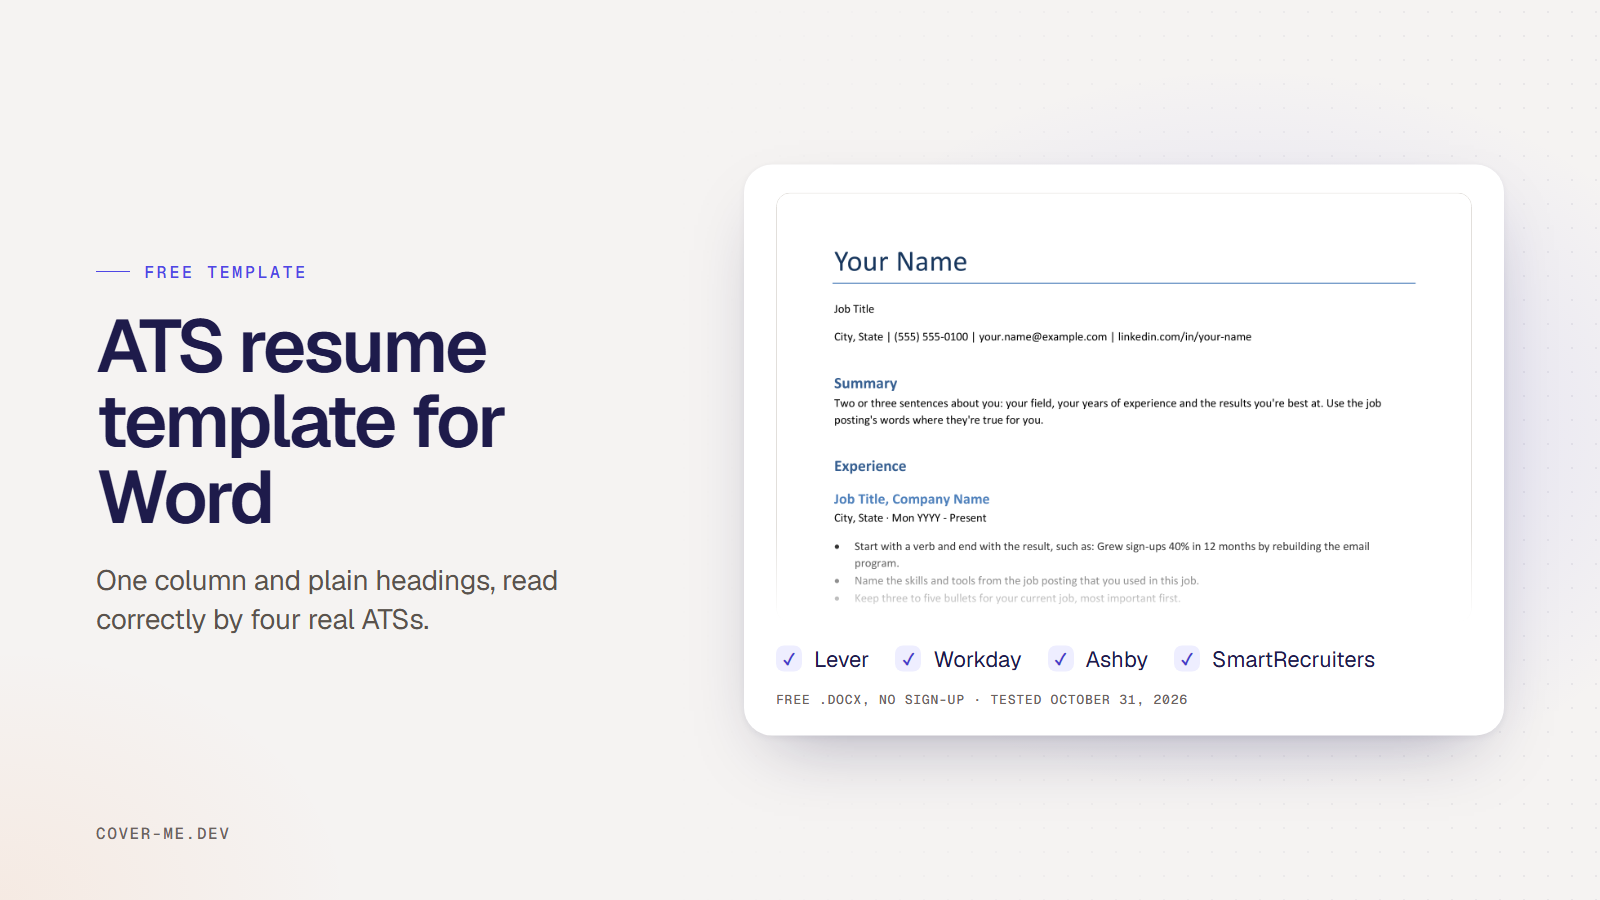
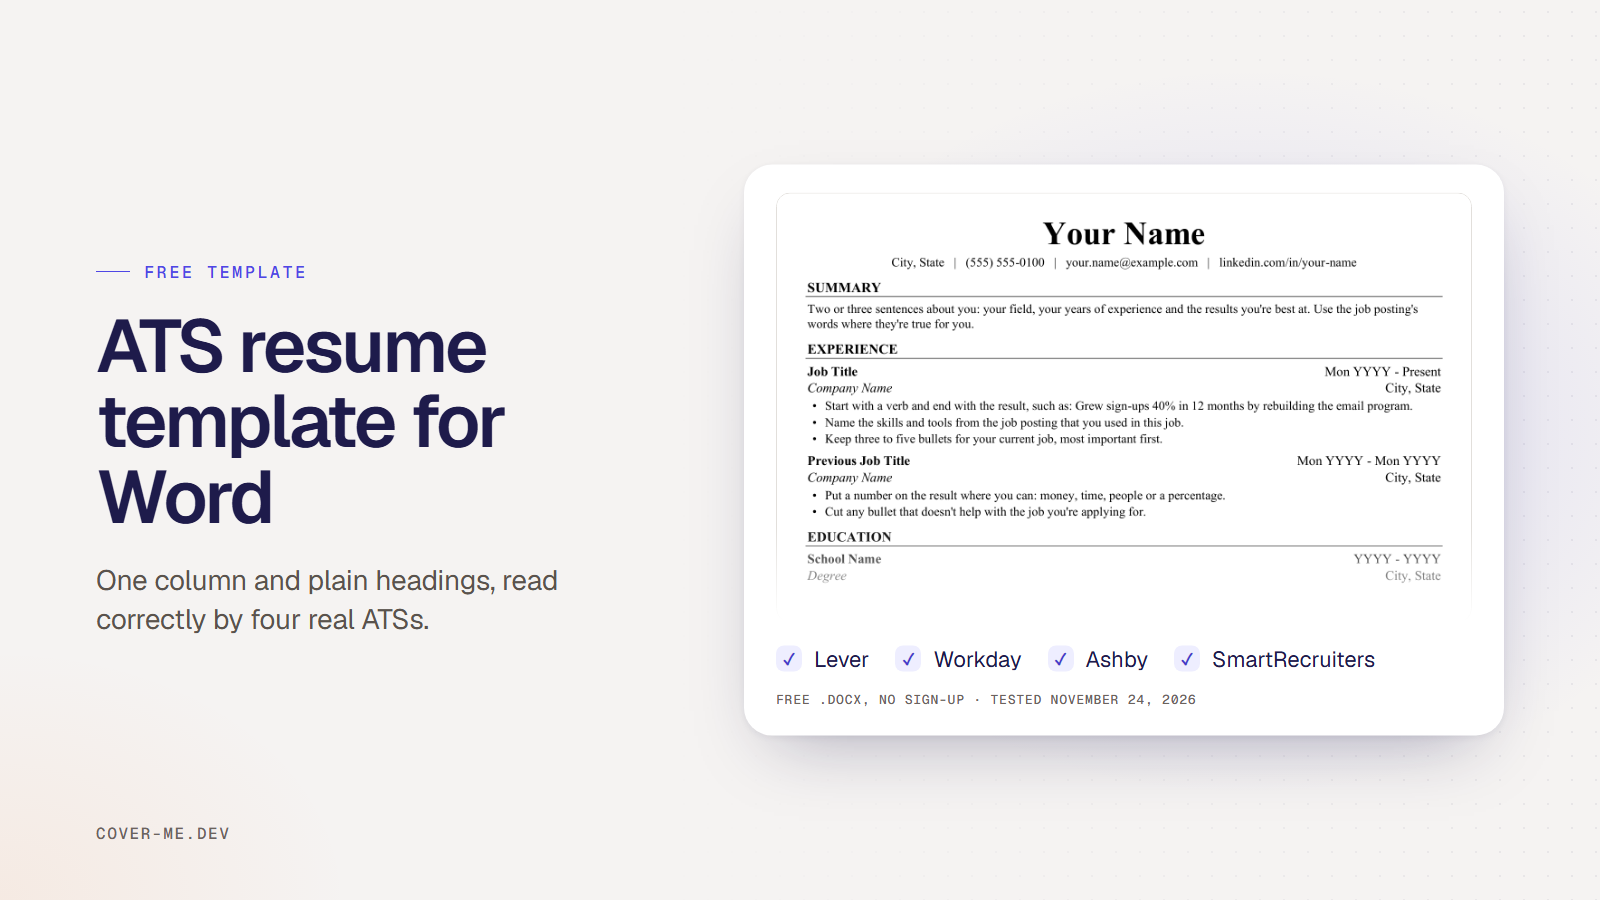
Build the ATS resume template from the Cover Me Word layout (#351)
The template now comes from buildResumeDocx with placeholder data, so it
matches what the tailor downloads, and a test fails if the two drift apart.
Re-tested on Lever, Ashby and SmartRecruiters; Workday pending.

diff --git a/web/app/guides/ats-resume-template/page.tsx b/web/app/guides/ats-resume-template/page.tsx
@@ -45,7 +45,7 @@ const faqJsonLd = {
       name: 'Which ATSs read this resume template correctly?',
       acceptedAnswer: {
         '@type': 'Answer',
-        text: 'Lever, Workday, Ashby and SmartRecruiters all filled in their application forms from the same one-column Word layout on October 31, 2026. On November 24, 2026, a filled-in copy of this template went through Ashby again, and the name, email, LinkedIn link and city all came through correctly.',
+        text: 'Lever, Workday, Ashby and SmartRecruiters all filled in their application forms correctly from a filled-in copy of this template on November 24, 2026. It is the layout Cover Me downloads when it tailors a resume.',
       },
     },
     {
@@ -53,7 +53,7 @@ const faqJsonLd = {
       name: 'Should I send the template as a Word file or a PDF?',
       acceptedAnswer: {
         '@type': 'Answer',
-        text: 'Either one. In the test, all four systems filled in the same details from the one-column Word file and the one-column PDF. Send whichever the job posting asks for. To make a PDF, use File, then Save As, and pick PDF.',
+        text: 'Either one. In the test, all four systems filled in the same details from the Word file and from a PDF saved from it in Word. Send whichever the job posting asks for. To make a PDF, use File, then Save As, and pick PDF.',
       },
     },
     {
@@ -61,17 +61,17 @@ const faqJsonLd = {
       name: 'Can I add color or a second column to the template?',
       acceptedAnswer: {
         '@type': 'Answer',
-        text: "Heading colors are fine: the tested file used Word's blue heading styles. Keep one column, though. In the same test, a two-column design made Ashby cut off a LinkedIn link, and a layout built with a table made SmartRecruiters put two skills into the degree.",
+        text: "Heading colors are fine: an earlier test file with Word's blue headings was read just as well. Keep one column, though. In that test, a two-column design made Ashby cut off a LinkedIn link, and a layout built with a table made SmartRecruiters put two skills into the degree.",
       },
     },
   ],
 }
 
 const FILL_IN: { title: string; body: string }[] = [
-  { title: 'Replace every placeholder', body: 'Type over Your Name, Job Title, Company Name and the dates. The bullets say what to write in each one.' },
+  { title: 'Replace every placeholder', body: 'Type over Your Name, City, State, Job Title, Company Name and the dates. The bullets say what to write in each one.' },
   { title: 'Keep your name and contact details as the first lines', body: "Leave them in the page, not in Word's header area. Some simpler systems skip the header." },
-  { title: 'Keep the section headings', body: 'Summary, Experience, Education and Skills are the plain headings the tested file used. If you rename one, keep it plain.' },
-  { title: 'Add a job by copying one', body: 'Copy a job title line, its date line and its bullets, and paste them below. That keeps the Word styles the systems read.' },
+  { title: 'Keep the section headings', body: 'Summary, Experience, Education and Skills are the plain headings the tested file used. If you rename one or add one, such as Projects, keep it plain.' },
+  { title: 'Add a job by copying one', body: 'Copy a job title line, the company line under it and its bullets, and paste them below. That keeps the Word styles and the tab before the dates.' },
   { title: "Don't add tables, text boxes or columns", body: 'In the test, a table and a two-column design each broke one system.' },
   { title: 'Save as Word or PDF', body: 'Both worked. Then upload it, and check what the form fills in before you submit.' },
 ]
@@ -92,7 +92,7 @@ export default function Page() {
       guide={guide}
       lede={
         <>
-          A free one-column Word resume template you can download without signing up. It&rsquo;s the same layout that Lever, Workday, Ashby and SmartRecruiters all read correctly when I tested six resume formats, with the made-up person&rsquo;s details swapped for placeholders.
+          A free one-column Word resume template you can download without signing up. It&rsquo;s the layout Cover Me downloads when it tailors a resume, and Lever, Workday, Ashby and SmartRecruiters all read it correctly when I uploaded it to real job postings.
         </>
       }
       tldr={
@@ -103,7 +103,7 @@ export default function Page() {
           </a>
           <ul className="list-disc space-y-2 pl-5 text-[16px] leading-[1.65] text-ink marker:text-brand">
             <li>One column, plain headings, name and contact details in the page.</li>
-            <li>The same layout was read correctly by Lever, Workday, Ashby and SmartRecruiters on October 31, 2026.</li>
+            <li>Read correctly by Lever, Workday, Ashby and SmartRecruiters on November 24, 2026.</li>
             <li>Free, no account, no email. Opens in Word.</li>
           </ul>
         </div>
@@ -114,7 +114,7 @@ export default function Page() {
           body: (
             <>
               <p>
-                One page in Calibri, in a single column that reads top to bottom: your name, job title and contact line, then Summary, Experience, Education and Skills. Each job has a title line, a date line and bullets in Word&rsquo;s own list style. Every line under the headings is a placeholder that says what goes there.
+                One page in Times New Roman, in a single column that reads top to bottom: your name and contact line, then Summary, Experience, Education and Skills. Each job has a line with the job title and dates, a line with the company and location, and bullets in Word&rsquo;s own list style. Every line is a placeholder that says what goes there.
               </p>
               <p>
                 It has no tables, text boxes, columns, icons or pictures. Those are what trip up the software that reads resumes, and the template is plain on purpose.
@@ -127,8 +127,8 @@ export default function Page() {
           body: (
             <>
               <p>
-                In my{' '}
-                <Link href="/guides/ats-friendly-resume-format">test of six resume formats</Link>, I uploaded the one-column Word file to the &ldquo;autofill from resume&rdquo; button on live job postings, and wrote down what each system filled in. All four filled in the form correctly. This template is that file with the details swapped for placeholders: same styles, same headings, same page setup.
+                On November 24, 2026, I filled this template in for the same made-up marketing manager as in my{' '}
+                <Link href="/guides/ats-friendly-resume-format">test of six resume formats</Link> from October 31, 2026. I uploaded it to the &ldquo;autofill from resume&rdquo; button on live job postings, then a PDF saved from it in Word, and wrote down what each system filled in. All four filled in the form correctly, and the PDF got the same results as the Word file.
               </p>
               <div className="overflow-x-auto !mt-6">
                 <table className="w-full min-w-[560px] text-[13.5px] border border-border rounded-[8px] overflow-hidden" style={{ borderCollapse: 'collapse' }}>
@@ -151,10 +151,10 @@ export default function Page() {
                 </table>
               </div>
               <p className="text-[13px]">
-                Tested October 31, 2026, with the one-column Word file filled in for a made-up marketing manager. No layout change fixes the small errors, so check the form before you submit. <Link href="/guides/ats-friendly-resume-format">Read the full test</Link>.
+                Tested November 24, 2026. Each system made the same small errors with the plain one-column file in October, so no layout change fixes them. Check the form before you submit. <Link href="/guides/ats-friendly-resume-format">Read the October test</Link>.
               </p>
               <p>
-                On November 24, 2026, I filled this template in for a made-up operations analyst and uploaded it to Ashby again. The name, email, LinkedIn link and city all came through correctly. The blank template is different: Ashby fills in the email and LinkedIn link but leaves &ldquo;Your Name&rdquo; and &ldquo;City, State&rdquo; empty, most likely because they aren&rsquo;t a real name or place. Replace every placeholder before you apply.
+                Upload the template blank and it&rsquo;s a different story: Ashby fills in the email and LinkedIn link but leaves &ldquo;Your Name&rdquo; and &ldquo;City, State&rdquo; empty, most likely because they aren&rsquo;t a real name or place. Replace every placeholder before you apply.
               </p>
             </>
           ),

diff --git a/web/lib/guides.test.ts b/web/lib/guides.test.ts
@@ -1,9 +1,12 @@
-import { existsSync, readdirSync, readFileSync } from 'node:fs'
+import { existsSync, readdirSync, readFileSync, writeFileSync } from 'node:fs'
 import { join } from 'node:path'
 import { createElement as h } from 'react'
 import type { Metadata } from 'next'
 import { describe, expect, it, vi } from 'vitest'
+import JSZip from 'jszip'
+import { ATS_RESUME_TEMPLATE } from './ats-resume-template'
 import { GUIDES, newestFirst, readingMinutes, slugify } from './guides'
+import { buildResumeDocx } from './pdf/resume-docx'
 
 vi.mock('next/font/google', () => ({ Source_Serif_4: () => ({ className: '' }) }))
 
@@ -215,6 +218,18 @@ describe('the ATS resume template guide', () => {
   it('has a full page title under 60 characters', async () => {
     const { metadata } = (await import(`../app/guides/${slug}/page.tsx`)) as { metadata: Metadata }
     expect(`${metadata.title} | Cover Me`.length).toBeLessThan(60)
+  }, 20_000)
+
+  it("is the Cover Me Word layout, so it matches what the tailor downloads (UPDATE_ATS_TEMPLATE=1 rebuilds it)", async () => {
+    const path = join(__dirname, '../public/guides/ats-resume-template/ats-resume-template.docx')
+    const built = Buffer.from(await (await buildResumeDocx(ATS_RESUME_TEMPLATE)).arrayBuffer())
+    if (process.env.UPDATE_ATS_TEMPLATE) writeFileSync(path, built)
+    const parts = async (bytes: Buffer) => {
+      const zip = await JSZip.loadAsync(bytes)
+      const names = Object.keys(zip.files).filter((n) => n !== 'docProps/core.xml').sort()
+      return Object.fromEntries(await Promise.all(names.map(async (n) => [n, await zip.file(n)!.async('string')])))
+    }
+    expect(await parts(readFileSync(path))).toEqual(await parts(built))
   }, 20_000)
 
   it('is linked from the ATS format guide', () => {

diff --git a/web/lib/ats-resume-template.ts b/web/lib/ats-resume-template.ts
@@ -1,0 +1,36 @@
+import type { TailoredResume } from './pdf/types'
+
+export const ATS_RESUME_TEMPLATE: TailoredResume = {
+  name: 'Your Name',
+  location: 'City, State',
+  phone: '(555) 555-0100',
+  email: 'your.name@example.com',
+  website: '',
+  links: ['linkedin.com/in/your-name'],
+  summary: "Two or three sentences about you: your field, your years of experience and the results you're best at. Use the job posting's words where they're true for you.",
+  experience: [
+    {
+      title: 'Job Title',
+      company: 'Company Name',
+      location: 'City, State',
+      dates: 'Mon YYYY - Present',
+      bullets: [
+        'Start with a verb and end with the result, such as: Grew sign-ups 40% in 12 months by rebuilding the email program.',
+        'Name the skills and tools from the job posting that you used in this job.',
+        'Keep three to five bullets for your current job, most important first.',
+      ],
+    },
+    {
+      title: 'Previous Job Title',
+      company: 'Company Name',
+      location: 'City, State',
+      dates: 'Mon YYYY - Mon YYYY',
+      bullets: [
+        'Put a number on the result where you can: money, time, people or a percentage.',
+        "Cut any bullet that doesn't help with the job you're applying for.",
+      ],
+    },
+  ],
+  education: [{ institution: 'School Name', degree: 'Degree', location: 'City, State', dates: 'YYYY - YYYY', bullets: [] }],
+  skills: 'Skill from the posting, Another skill, Software you use, Certification',
+}

diff --git a/web/lib/guides.ts b/web/lib/guides.ts
@@ -166,11 +166,11 @@ export const GUIDES: Guide[] = [
   {
     slug: 'ats-resume-template',
     title: 'ATS resume template: a free Word file tested in 4 ATSs',
-    description: 'A free one-column Word resume template with placeholder text, no sign-up. The same layout read correctly in Lever, Workday, Ashby and SmartRecruiters, tested October 31, 2026.',
+    description: 'A free one-column Word resume template with placeholder text, no sign-up. Read correctly by Lever, Workday, Ashby and SmartRecruiters, tested November 24, 2026.',
     date: '2026-11-24',
     image: '/guides/ats-resume-template.png',
     imageAlt:
-      "The top of the free ATS resume template in Word: Your Name, Job Title, a contact line, then Summary and Experience headings with placeholder bullets. Below it, checks for Lever, Workday, Ashby and SmartRecruiters. Free .docx, no sign-up, tested October 31, 2026.",
+      "The top of the free ATS resume template in Word: Your Name centered over a contact line, then Summary, Experience and Education headings with placeholder text and bullets. Below it, checks for Lever, Workday, Ashby and SmartRecruiters. Free .docx, no sign-up, tested November 24, 2026.",
   },
 ]
 

diff --git a/web/lib/ats-checker/read-resume.test.ts b/web/lib/ats-checker/read-resume.test.ts
@@ -63,8 +63,8 @@ describe('reading an uploaded resume', () => {
 
 test('the ATS resume template reads as placeholders, with contact details in the body and nothing left of the test resume', async () => {
   const { text } = await readResumeFile(file(join(__dirname, '../../public/guides/ats-resume-template/ats-resume-template.docx')))
-  expect(text).toMatch(/^Your Name\s+Job Title\s/)
-  for (const heading of ['Summary', 'Experience', 'Education', 'Skills']) expect(text).toContain(heading)
+  expect(text).toMatch(/^Your Name\s+City, State/)
+  for (const heading of ['SUMMARY', 'EXPERIENCE', 'EDUCATION', 'SKILLS']) expect(text).toContain(heading)
   expect(text).not.toMatch(/Alex|Rivera|Fernwood|Quillmark|Tidewater|Illinois/)
   expect(checkResumeText(text, '')).toMatchObject({ email: true, phone: true, bullets: { total: 5 } })
 }, 30_000)
